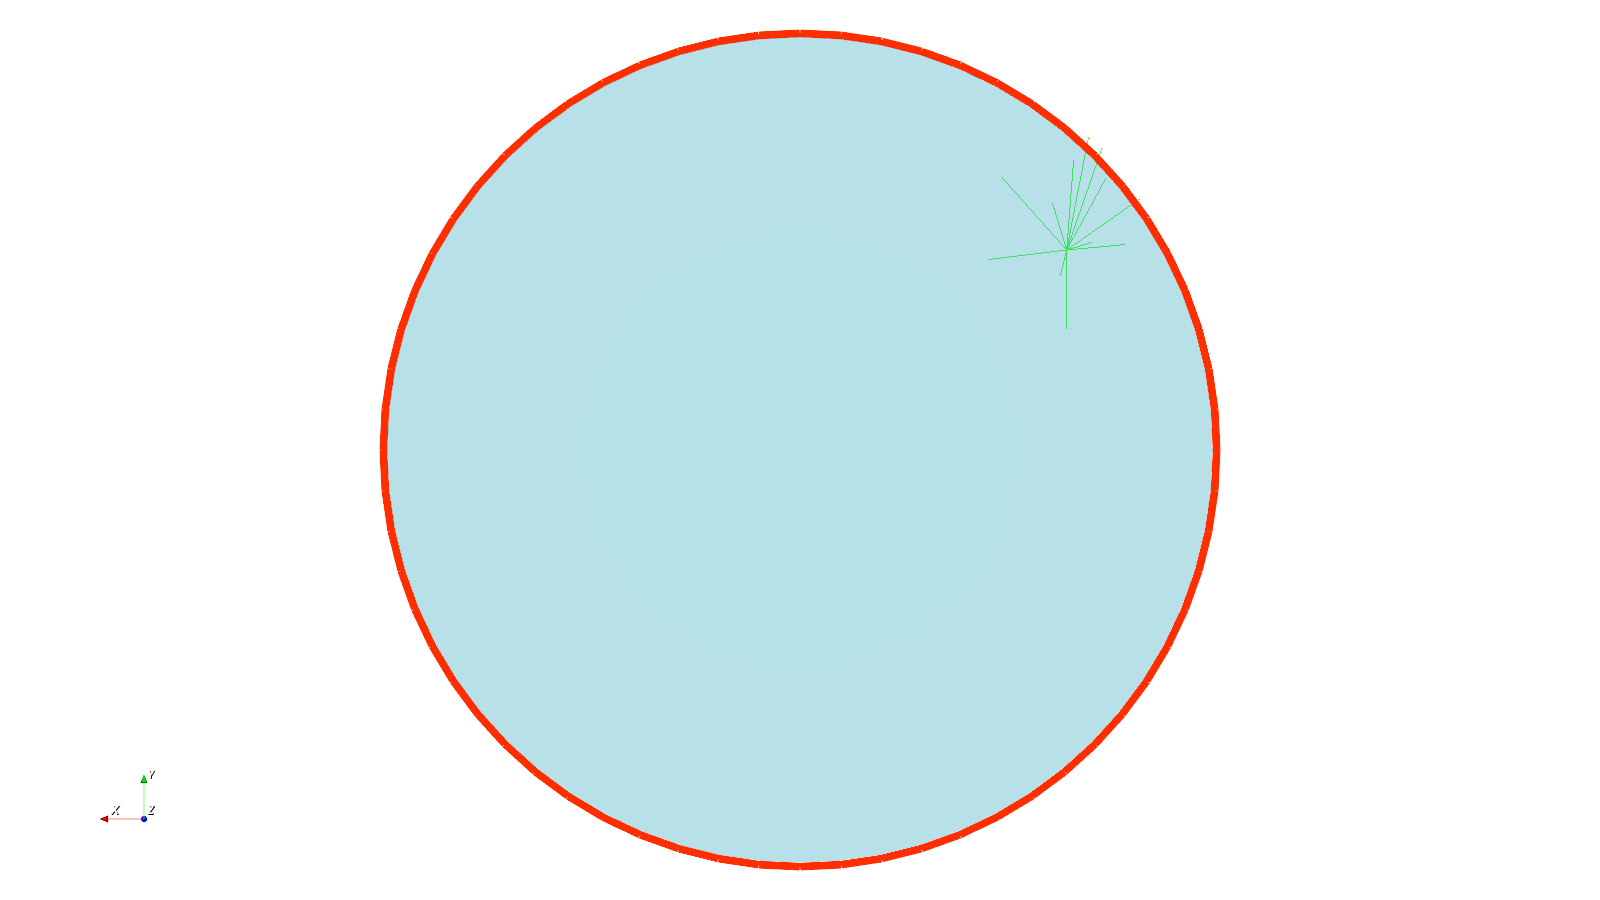
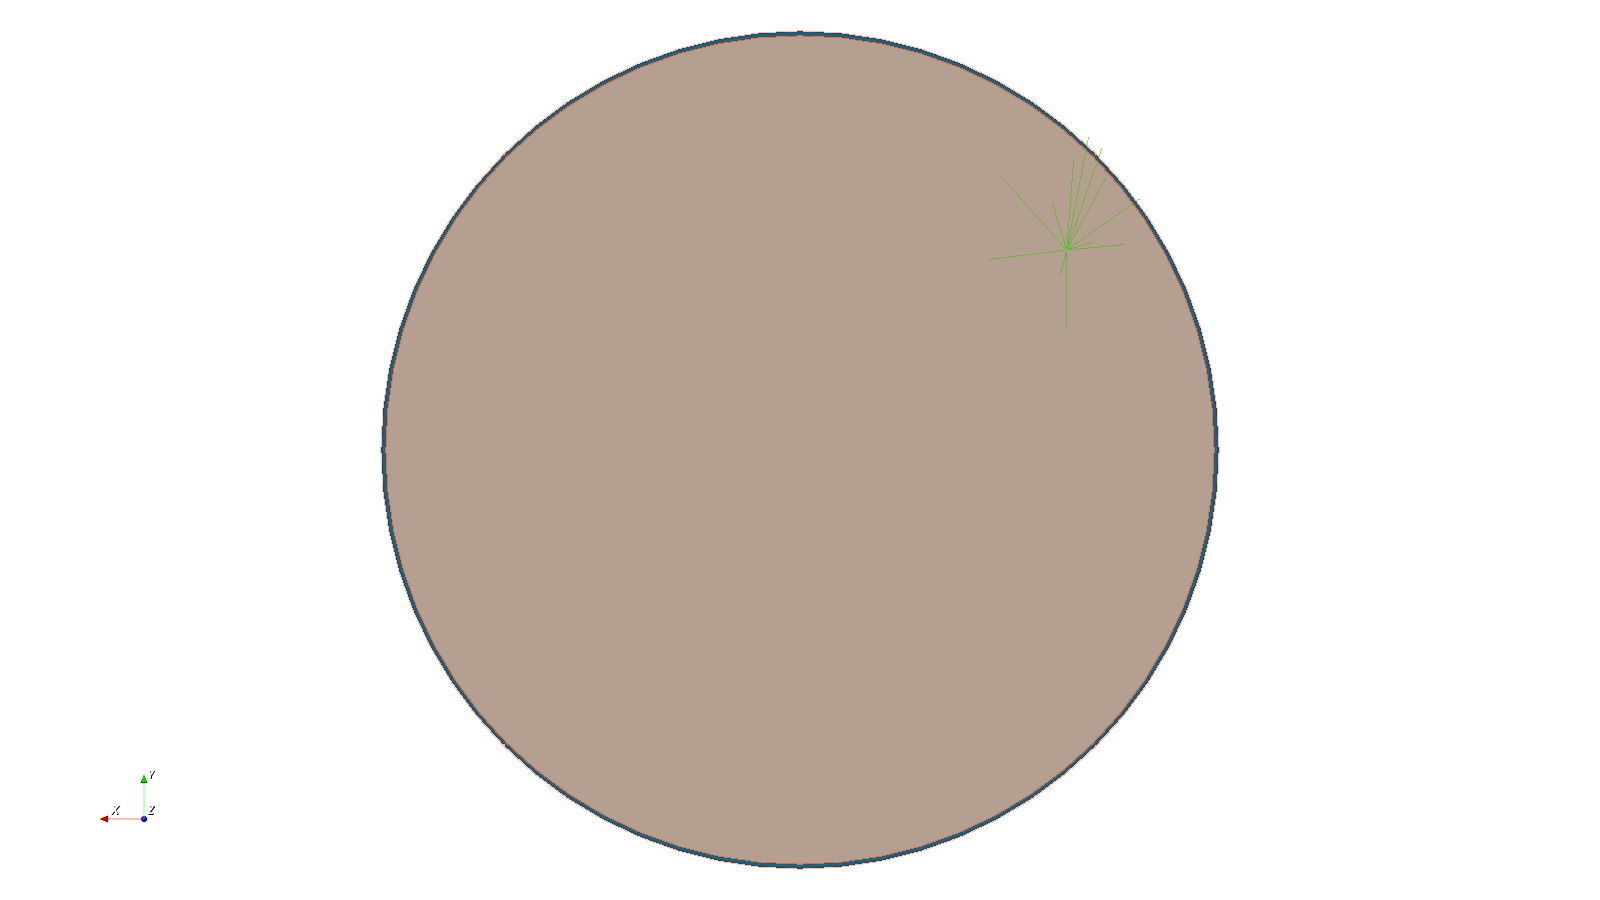
Show analytic STEP face hover surfaces

diff --git a/KrakenOS/UI/open3d_inspector.py b/KrakenOS/UI/open3d_inspector.py
@@ -7924,14 +7924,36 @@ class Kraken3DInspector(Open3DDebugToolsMixin, tk.Toplevel):
         self._hover_step_cell_key = hover_key
         if outline_mesh is not None and int(getattr(outline_mesh, "n_points", 0)) > 0 and vtkActor is not None and vtkDataSetMapper is not None:
             try:
+                has_surface = False
+                try:
+                    has_surface = int(outline_mesh.GetNumberOfPolys()) > 0
+                except Exception:
+                    try:
+                        has_surface = int(getattr(outline_mesh, "n_faces_strict", 0)) > 0
+                    except Exception:
+                        has_surface = False
                 mapper = vtkDataSetMapper()
                 mapper.SetInputData(outline_mesh)
+                try:
+                    mapper.ScalarVisibilityOff()
+                except Exception:
+                    pass
                 actor = vtkActor()
                 actor.SetMapper(mapper)
                 prop = actor.GetProperty()
-                prop.SetColor(1.0, 0.18, 0.0)
-                prop.SetOpacity(1.0)
-                prop.SetLineWidth(8.0)
+                if has_surface:
+                    prop.SetColor(1.0, 0.26, 0.0)
+                    prop.SetOpacity(0.58)
+                    prop.SetLineWidth(6.0)
+                    try:
+                        prop.EdgeVisibilityOn()
+                        prop.SetEdgeColor(1.0, 0.12, 0.0)
+                    except Exception:
+                        pass
+                else:
+                    prop.SetColor(1.0, 0.18, 0.0)
+                    prop.SetOpacity(1.0)
+                    prop.SetLineWidth(8.0)
                 try:
                     prop.SetAmbient(1.0)
                     prop.SetDiffuse(0.0)
@@ -8511,8 +8533,33 @@ class Kraken3DInspector(Open3DDebugToolsMixin, tk.Toplevel):
             face_indices = face_indices_for_record(display_mesh, face)
             if face_indices:
                 outline = None
+                face_mesh = None
+                selected_triangles = triangles_for_face_indices(display_mesh, face_indices)
+                if selected_triangles.size:
+                    try:
+                        center_for_offset = np.asarray(face.get("centroid_world", face.get("centroid", ())), dtype=float).reshape(-1)[:3]
+                        camera = self._renderer.GetActiveCamera() if self._renderer is not None else None
+                        camera_position = np.asarray(camera.GetPosition(), dtype=float).reshape(-1)[:3] if camera is not None else np.asarray([])
+                        view_direction = camera_position[:3] - center_for_offset[:3]
+                        view_norm = float(np.linalg.norm(view_direction))
+                        if (
+                            center_for_offset.size >= 3
+                            and camera_position.size >= 3
+                            and np.all(np.isfinite(center_for_offset[:3]))
+                            and np.all(np.isfinite(camera_position[:3]))
+                            and np.isfinite(view_norm)
+                            and view_norm > 1.0e-12
+                        ):
+                            try:
+                                _scene_center, scene_radius = self._scene_bounds()
+                            except Exception:
+                                scene_radius = 1.0
+                            offset = max(float(scene_radius) * 1.0e-4, 1.0e-3)
+                            selected_triangles = selected_triangles + (view_direction[:3] / view_norm).reshape((1, 1, 3)) * offset
+                    except Exception:
+                        pass
+                    face_mesh = self._polydata_from_triangles(selected_triangles)
                 if str(face.get("assignment_source", "") or "").startswith("step_analytic_axisymmetric_group"):
-                    selected_triangles = triangles_for_face_indices(display_mesh, face_indices)
                     if selected_triangles.size:
                         outline = self._planar_outline_from_triangles(
                             selected_triangles,
@@ -8520,9 +8567,18 @@ class Kraken3DInspector(Open3DDebugToolsMixin, tk.Toplevel):
                         )
                 if outline is None or int(getattr(outline, "n_points", 0)) <= 0:
                     outline = face_outline_from_face_indices(display_mesh, face_indices)
+                overlay = face_mesh
                 if outline is not None and int(getattr(outline, "n_points", 0)) > 0:
+                    if overlay is not None and int(getattr(overlay, "n_points", 0)) > 0:
+                        try:
+                            overlay = overlay.merge(outline)
+                        except Exception:
+                            pass
+                    else:
+                        overlay = outline
+                if overlay is not None and int(getattr(overlay, "n_points", 0)) > 0:
                     center = face.get("centroid_world", face.get("centroid", ()))
-                    return self._hover_overlay_for_feature(center, outline)
+                    return self._hover_overlay_for_feature(center, overlay)
         except Exception:
             pass
         try:

diff --git a/KrakenOS/UI/services/open3d_interaction.py b/KrakenOS/UI/services/open3d_interaction.py
@@ -862,6 +862,35 @@ class Open3DInteractionService:
                         )
                         return
                     self._set_rotation_handle_hover(None)
+                    step_label = self._actor_step_map.get(actor_key) if actor_key is not None else None
+                    if step_label is not None:
+                        try:
+                            cell_id = int(self._picker.GetCellId())
+                        except Exception:
+                            cell_id = -1
+                        feature_pick = self._step_feature_pick_for_display_xy(
+                            str(step_label),
+                            (x, y),
+                            actor=actor,
+                            actor_key=actor_key,
+                            cell_id=cell_id,
+                        )
+                        feature = feature_pick.get("feature") if feature_pick is not None else None
+                        if feature is not None:
+                            face_id = str(feature_pick.get("face_id", "") if feature_pick is not None else "").strip()
+                            hover_key = (actor_key, "passive", face_id or int(cell_id))
+                            outline = None
+                            if hover_key != self._hover_step_cell_key:
+                                outline = self._hover_overlay_for_feature(feature[0], feature[1])
+                            self._set_step_hover_outline(outline, hover_key)
+                            face_note = f" {face_id} face" if face_id else " feature"
+                            self._update_hover_status(
+                                f"{str(step_label).upper()} STEP{face_note}",
+                                display_xy=(x, y),
+                                render=True,
+                            )
+                            self._set_axis_pick_cursor(True)
+                            return
                 except Exception:
                     actor = None
                     actor_key = None

diff --git a/KrakenOS/UI/validate_open3d_lens_step_face_pick.py b/KrakenOS/UI/validate_open3d_lens_step_face_pick.py
@@ -9,6 +9,7 @@ from pathlib import Path
 import numpy as np
 
 from KrakenOS.UI import cad_import_service
+from KrakenOS.UI import capture_open3d_lens_face_selection_snap
 from KrakenOS.UI.open3d_inspector import Kraken3DInspector
 from KrakenOS.UI.services import (
     open3d_face_index_edges,
@@ -181,8 +182,13 @@ def main() -> int:
         failures.append("Carry-mode imported STEP hover must pick the active STEP face, not only rotation handles.")
     if "_step_feature_pick_for_display_xy" not in interaction_source:
         failures.append("Active imported STEP hover must use the display-safe STEP feature picker.")
+    if '"passive"' not in interaction_source:
+        failures.append("Passive imported STEP hover must show the selected face highlight outside axis modes.")
     if "_step_feature_pick_for_display_xy" not in interaction_class_source:
         failures.append("Imported STEP click selection must use the display-safe STEP feature picker.")
+    capture_source = __import__("inspect").getsource(capture_open3d_lens_face_selection_snap)
+    if "highlight_polys" not in capture_source or "GetNumberOfPolys" not in capture_source:
+        failures.append("Lens face-selection capture must fail when the highlight has no selected surface polygons.")
     import_source = __import__("inspect").getsource(StepOverlayImportService.import_optical_step)
     if "_optical_prescription_sidecars" not in import_source or "STEP has no glass prescription" not in import_source:
         failures.append("Optical STEP import should warn when a sidecar prescription is needed for designed lens focus.")

diff --git a/KrakenOS/UI/capture_open3d_lens_face_selection_snap.py b/KrakenOS/UI/capture_open3d_lens_face_selection_snap.py
@@ -104,11 +104,18 @@ def _pick_lens_face(inspector: Kraken3DInspector, face: dict[str, object]) -> di
     if not face_id:
         raise RuntimeError(f"Lens feature pick resolved only a generic cell, not a grouped face; cell={cell_id}.")
     outline = inspector._hover_overlay_for_feature(feature[0], feature[1])
+    try:
+        highlight_polys = int(outline.GetNumberOfPolys()) if outline is not None else 0
+    except Exception:
+        highlight_polys = 0
+    if highlight_polys <= 0:
+        raise RuntimeError(f"Lens face highlight did not include selected surface polygons for {face_id}.")
     inspector._set_step_hover_outline(outline, ("capture", "optical", face_id))
     return {
         "display_xy": [int(x), int(y)],
         "cell_id": int(cell_id),
         "face_id": face_id,
+        "highlight_polys": int(highlight_polys),
         "surface_center": [float(value) for value in np.asarray(feature_pick.get("surface_center"), dtype=float).reshape(-1)[:3]],
     }
 

diff --git a/BRANCH_README.md b/BRANCH_README.md
@@ -134,9 +134,10 @@ passive-hover contract for large vendor STEP-derived STL files. Round-lens
 STEP hover/click/right-click selection now resolves grouped analytic lens-cap
 records before raw VTK cells, so transparent achromats do not select side/rim
 tessellation when the cursor is over an optical cap; the hover tooltip includes
-the selected face ID before falling back to raw triangle features. Grouped
-analytic lens face picking is also checked through an actual VTK actor/cell
-screenshot replay at
+the selected face ID before falling back to raw triangle features, and passive
+hover over an imported STEP actor now displays the selected analytic face as a
+translucent surface overlay instead of only a rim outline. Grouped analytic lens
+face picking is also checked through an actual VTK actor/cell screenshot replay at
    `attachment/open3d_lens_face_selection_snap/`; Open 3D left-drag camera
    rotation is contract-checked with the restored screen-following sign
    convention.
